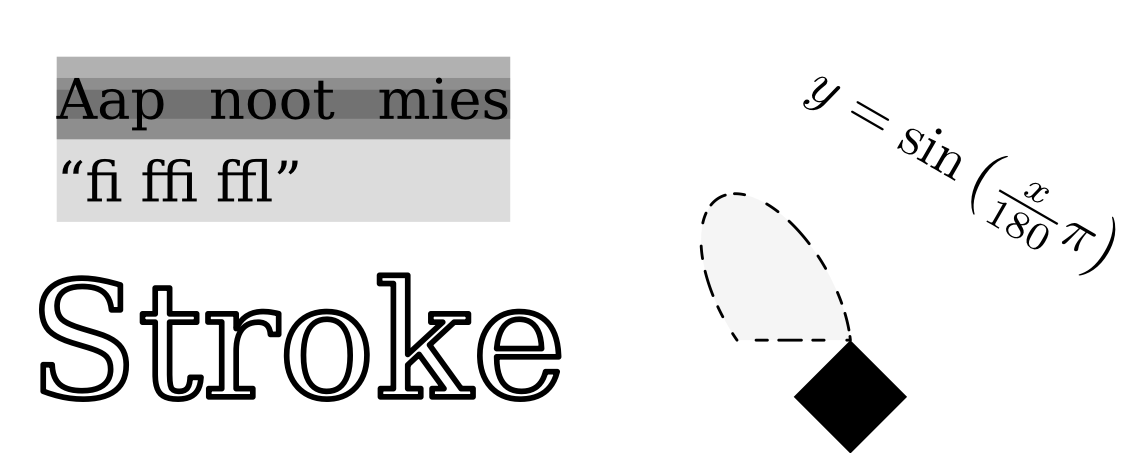
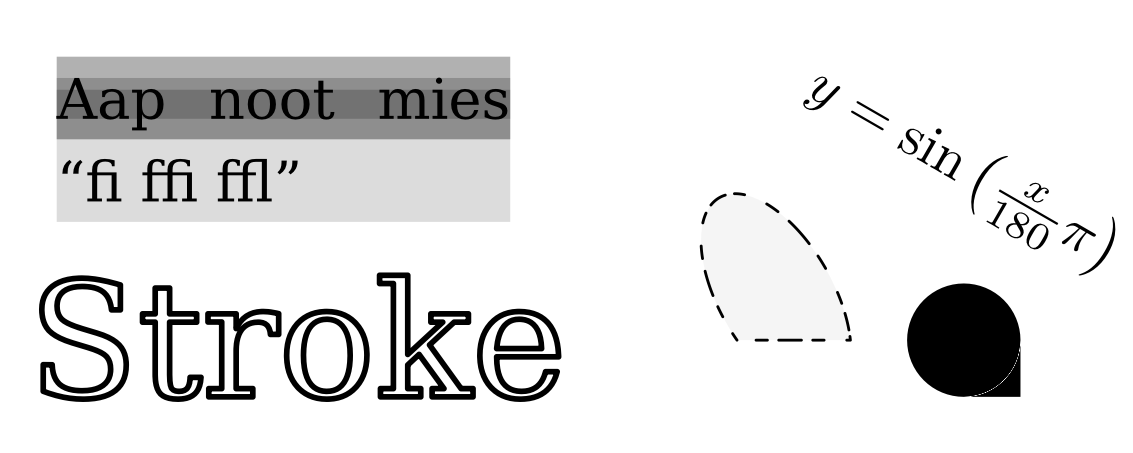
Add Arc function to add an elliptical arc specified by start and end angle

Changed region(s): [[0.6796, 0.6181, 0.9267, 1.0]]

diff --git a/path.go b/path.go
@@ -202,6 +202,30 @@ func (p *Path) ArcTo(rx, ry, rot float64, largeArc, sweep bool, x2, y2 float64) 
 	return p
 }
 
+// Arc adds an elliptical arc with radii rx and ry, with rot the counter clockwise rotation in degrees, and theta0 and theta1 the angles in degrees of the ellipse (before rot is applies) between which the arc will run. If theta0 < theta1, the arc will run in a CCW direction. If the difference between theta0 and theta1 is bigger than 360 degrees, a full circle will be drawn and the remaining part (eg. a difference of 810 degrees will draw one full circle and an arc over 90 degrees).
+func (p *Path) Arc(rx, ry, rot, theta0, theta1 float64) *Path {
+	phi := rot * math.Pi / 180.0
+	theta0 *= math.Pi / 180.0
+	theta1 *= math.Pi / 180.0
+	dtheta := math.Abs(theta1 - theta0)
+
+	sweep := theta0 < theta1
+	largeArc := math.Mod(dtheta, 2.0*math.Pi) > math.Pi
+	p0 := ellipsePos(rx, ry, phi, 0.0, 0.0, theta0)
+	p1 := ellipsePos(rx, ry, phi, 0.0, 0.0, theta1)
+
+	x1, y1 := p.Pos()
+	start := Point{x1, y1}
+	center := start.Sub(p0)
+	if dtheta > 2.0*math.Pi {
+		startOpposite := center.Sub(p0)
+		p.ArcTo(rx, ry, rot, largeArc, sweep, startOpposite.X, startOpposite.Y)
+		p.ArcTo(rx, ry, rot, largeArc, sweep, start.X, start.Y)
+	}
+	end := center.Add(p1)
+	return p.ArcTo(rx, ry, rot, largeArc, sweep, end.X, end.Y)
+}
+
 // Close closes a path with a LineTo to the start of the path (the most recent MoveTo command).
 // It also signals the path closes, as opposed to being just a LineTo command.
 func (p *Path) Close() *Path {
@@ -280,7 +304,7 @@ func Ellipse(x, y, rx, ry float64) *Path {
 	return p
 }
 
-// RegularPolygon returns a regular polygon at x,y with radius r and rotation rot. It uses n vertices/edges, so when n approaches infinity this will return a path that approximates a circle.
+// RegularPolygon returns a regular polygon at x,y with radius r and rotation rot in degrees. It uses n vertices/edges, so when n approaches infinity this will return a path that approximates a circle.
 func RegularPolygon(n int, x, y, r, rot float64) *Path {
 	if n < 2 {
 		return &Path{}

diff --git a/path_util.go b/path_util.go
@@ -234,19 +234,6 @@ func invPolynomialApprox4(gaussLegendre gaussLegendreFunc, fp func(float64) floa
 
 ////////////////////////////////////////////////////////////////
 
-// ellipseToEndpoints converts to the endpoint arc format and returns (startX, startY, largeArc, sweep, endX, endY)
-// see https://www.w3.org/TR/SVG/implnote.html#ArcImplementationNotes
-//func ellipseToEndpoint(cx, cy, rx, ry, rot, theta1, theta2 float64) (float64, float64, bool, bool, float64, float64) {
-//	// TODO: is rot, theta1 and theta2 in degrees?? Must be radians!!
-//	x1 := math.Cos(rot)*rx*math.Cos(theta1) - math.Sin(rot)*ry*math.Sin(theta1) + cx
-//	y1 := math.Sin(rot)*rx*math.Cos(theta1) + math.Cos(rot)*ry*math.Sin(theta1) + cy
-//	x2 := math.Cos(rot)*rx*math.Cos(theta2) - math.Sin(rot)*ry*math.Sin(theta2) + cx
-//	y2 := math.Sin(rot)*rx*math.Cos(theta2) + math.Cos(rot)*ry*math.Sin(theta2) + cy
-//	largeArc := math.Abs(theta2-theta1) > 180.0
-//	sweep := (theta2 - theta1) > 0.0
-//	return x1, y1, largeArc, sweep, x2, y2
-//}
-
 func ellipsePos(rx, ry, phi, cx, cy, theta float64) Point {
 	sintheta, costheta := math.Sincos(theta)
 	sinphi, cosphi := math.Sincos(phi)

diff --git a/README.md b/README.md
@@ -45,7 +45,6 @@ Paths
 * **Approximate elliptic arcs by lines given a tolerance for use in `Flatten`**
 * **Approximate elliptic arcs by Beziérs given a tolerance for use in `WriteImage`, `ToPDF`**
 * Easier support for building paths from strings, like AppendSVG for example?
-* Add ArcTo in endpoint format (take begin/end angle and center point)
 * Add function to convert lines to cubic Beziérs to smooth out a path
 * Add function to apply mask (ie. apply a mask path onto another path)
 * Add function to apply shear transformation
@@ -103,6 +102,13 @@ p.QuadTo(cpx, cpy, x, y float64)                                  // a quadratic
 p.CubeTo(cp1x, cp1y, cp2x, cp2y, x, y float64)                    // a cubic Bézier with control points (cp1x,cp1y), (cp2x,cp2y) and end point (x,y)
 p.ArcTo(rx, ry, rot float64, largeArc, sweep bool, x, y float64)  // an arc of an ellipse with radii (rx,ry), rotated by rot (in degrees CCW), with flags largeArc and sweep (booleans, see https://www.w3.org/TR/SVG/paths.html#PathDataEllipticalArcCommands)
 p.Close()                                                         // close the path, essentially a LineTo to the last MoveTo location
+
+p = Rectangle(x, y, w, h float64)
+p = RoundedRectangle(x, y, w, h, r float64)
+p = BeveledRectangle(x, y, w, h, r float64)
+p = RegularPolygon(n int, x, y, r, rot float64)
+p = Circle(x, y, r float64)
+p = Ellipse(x, y, rx, ry float64)
 ```
 
 We can extract information from these paths using:
